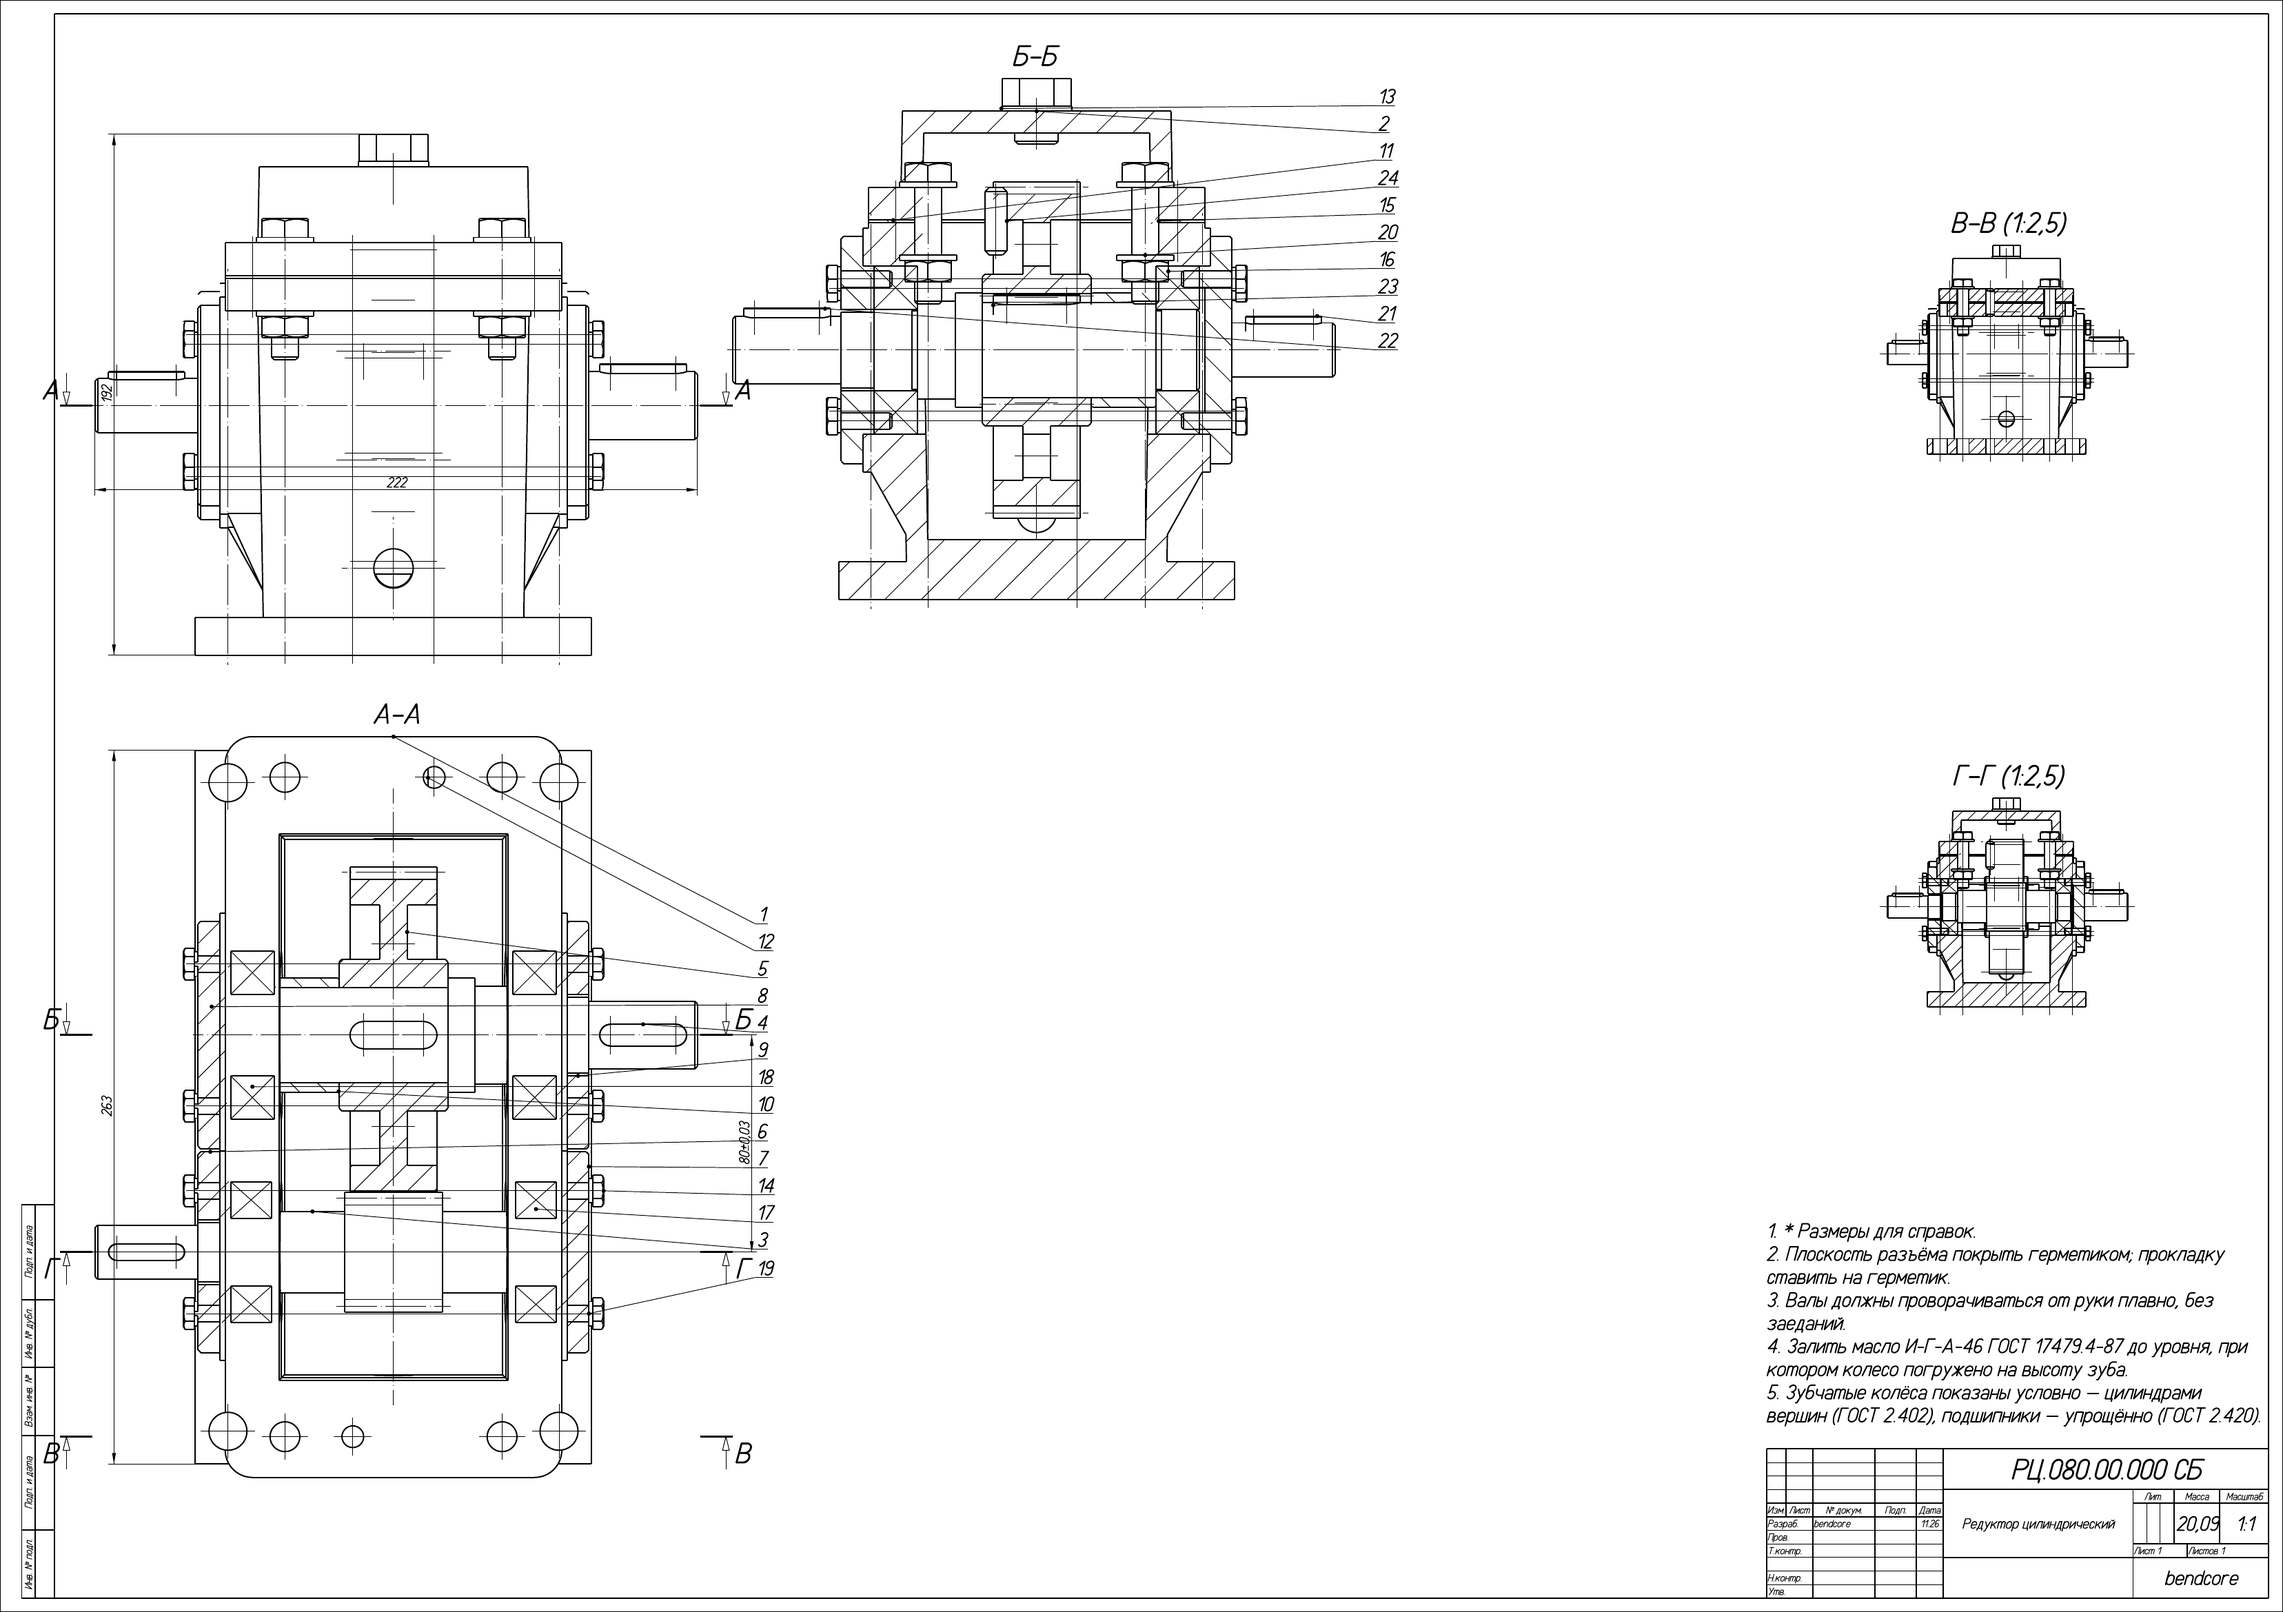
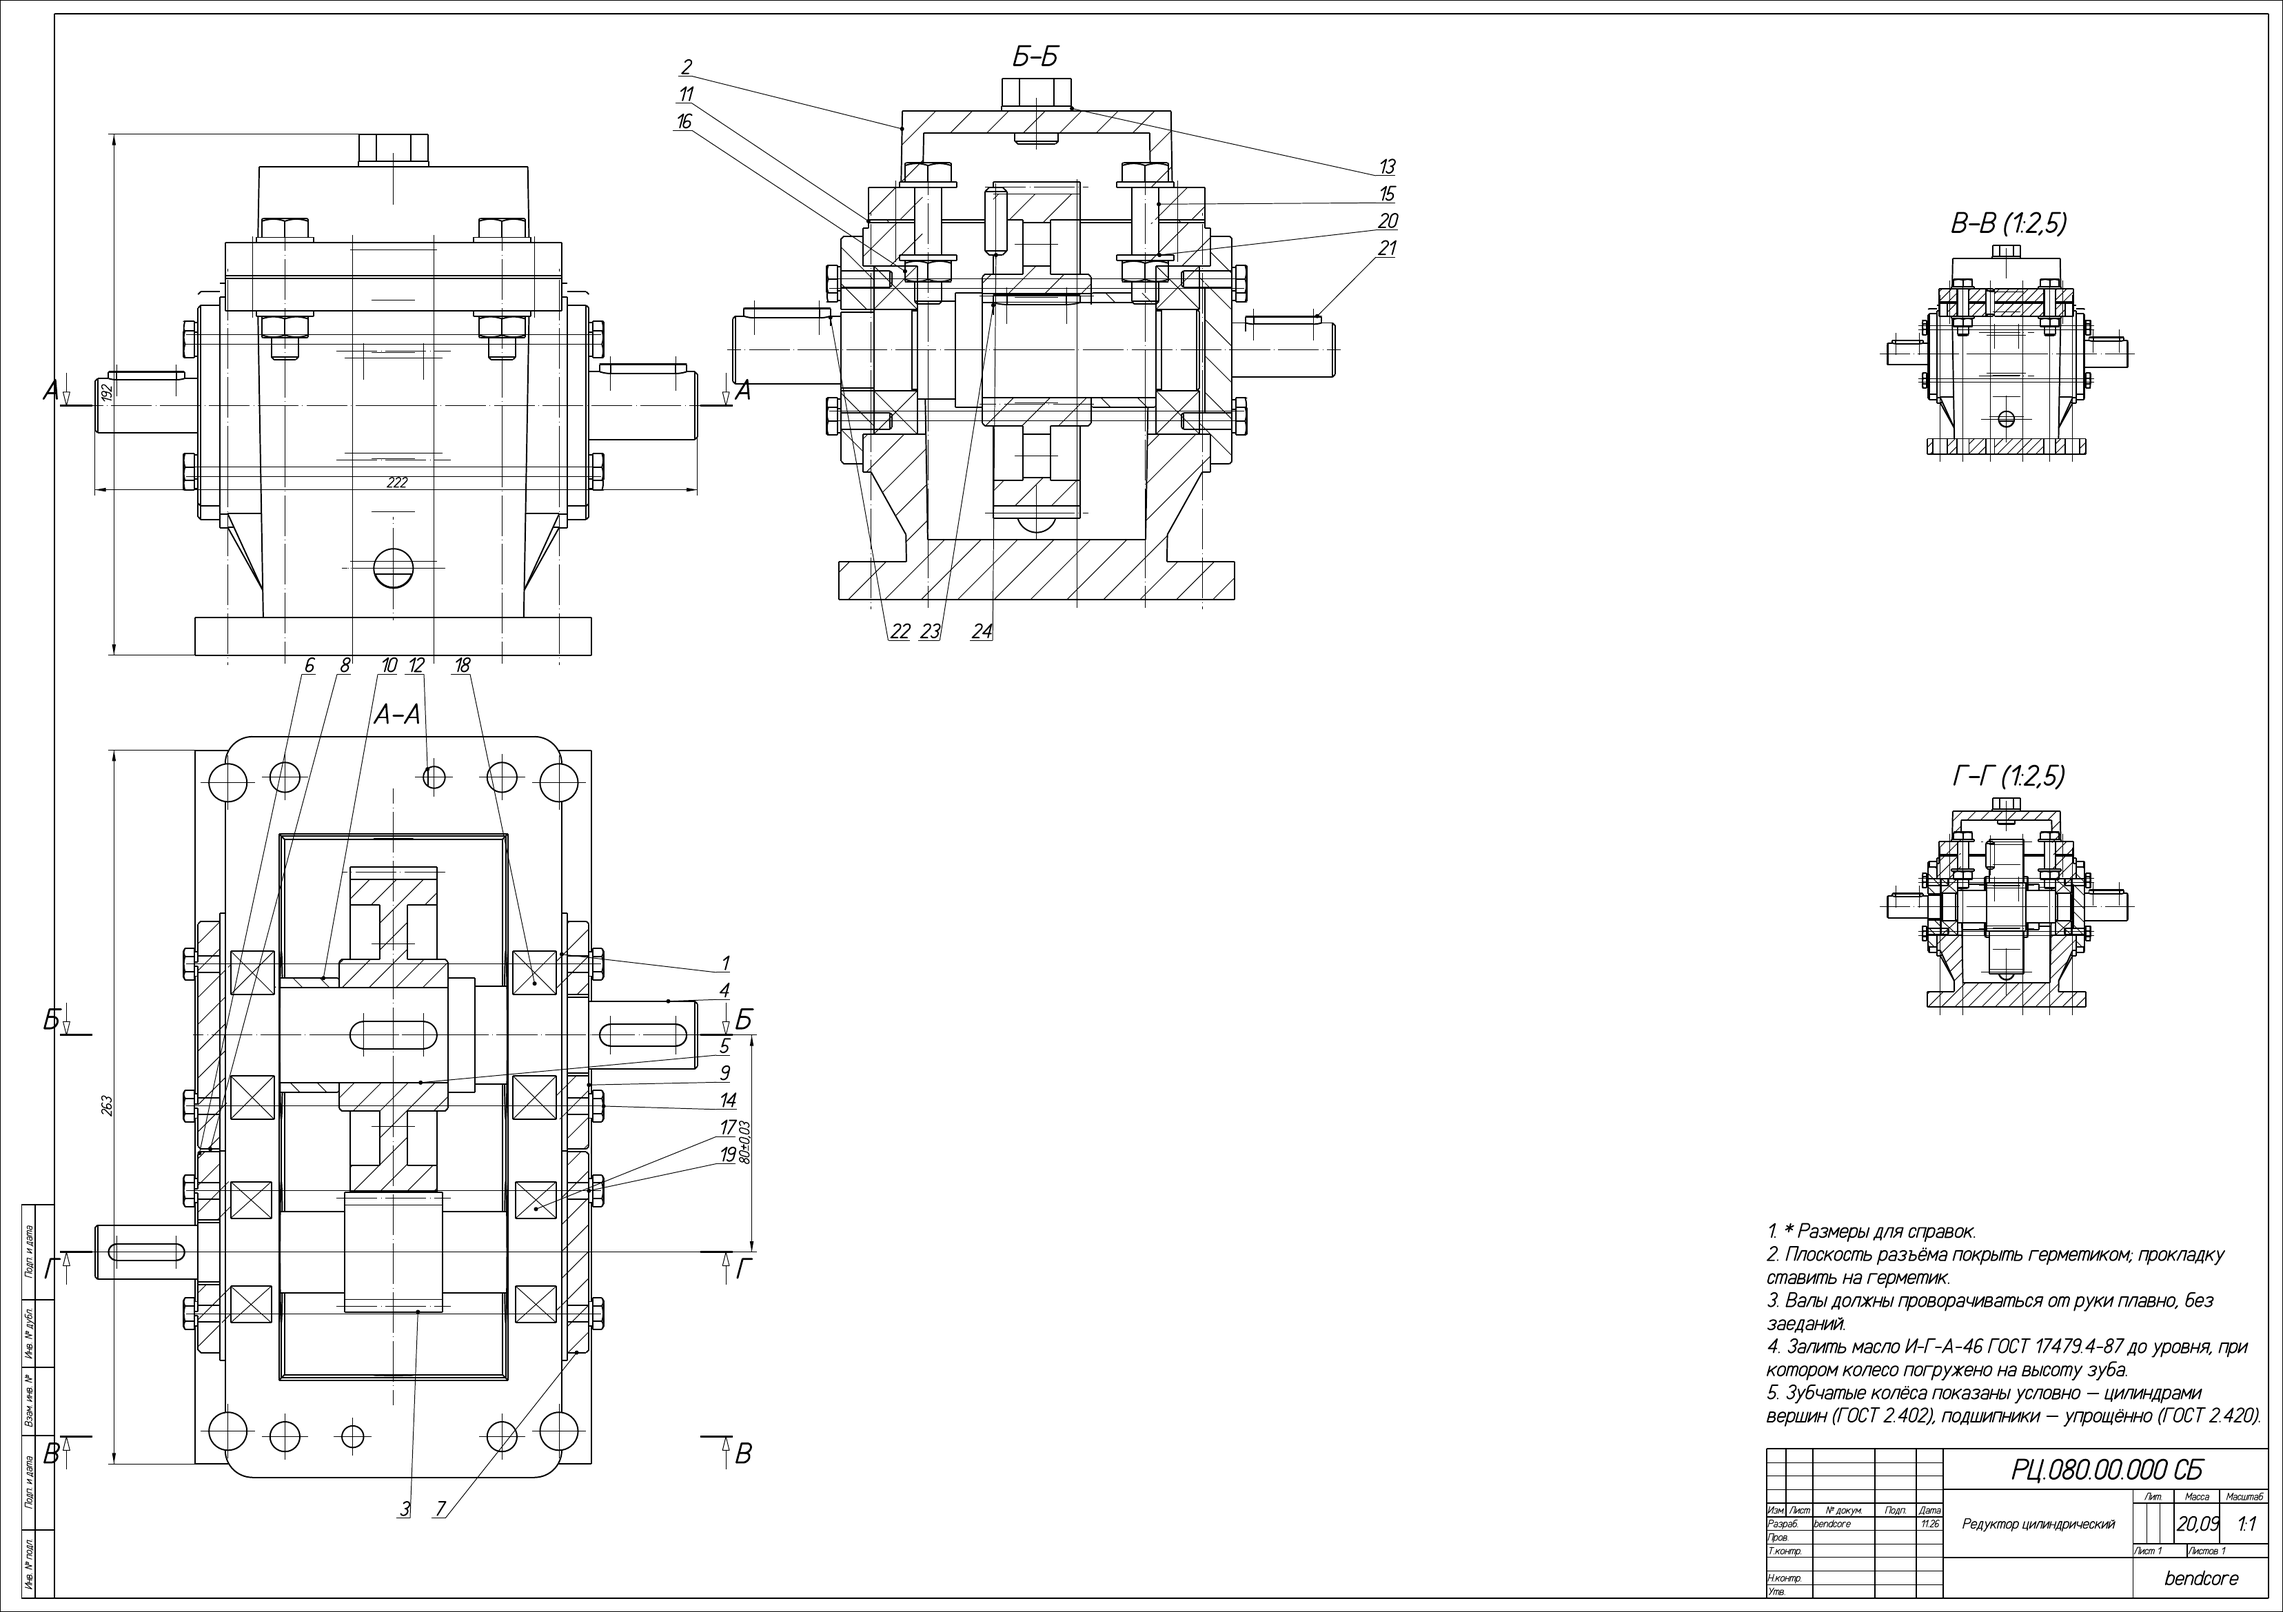
Positions: slide shelf lines along the side, other views and slanted letters as obstacles; regenerate the gearbox kit
Claude-Session: https://claude.ai/code/session_01Rpe6GEasUXj3fCuBptXKpM

diff --git a/src/drawing_v2/document/drawing_document.cpp b/src/drawing_v2/document/drawing_document.cpp
@@ -224,16 +224,18 @@ Status renderViewMarks(Drawing& d, const ComputedView& cv, const std::map<std::s
     return okStatus();
 }
 
-// Габарит строки текста (с поворотом — габарит повёрнутого прямоугольника).
+// Габарит строки текста (с поворотом — габарит повёрнутого прямоугольника) с запасом: наклон
+// букв 75° (ГОСТ 2.304) выносит верх строки вправо на h · ctg 75°, и 0,5 мм со всех сторон.
 Rect textBox(Point2 at, const std::string& utf8, double height, double rotationDeg, HAlign ha, VAlign va,
              const TextMetrics* font) {
     const double w = annotations::estimateTextWidth(utf8, height, font);
     const double x0 = ha == HAlign::Left ? 0.0 : ha == HAlign::Center ? -w / 2.0 : -w;
     const double y0 = va == VAlign::Baseline ? 0.0 : va == VAlign::Middle ? -height / 2.0 : -height;
     const double a = rotationDeg * 3.14159265358979323846 / 180.0, c = std::cos(a), s = std::sin(a);
+    const double slant = height / std::tan(kGostTextSlantDeg * 3.14159265358979323846 / 180.0), pad = 0.5;
     Rect r{1e300, 1e300, -1e300, -1e300};
-    for (double u : {x0, x0 + w})
-        for (double v : {y0, y0 + height}) {
+    for (double u : {x0 - pad, x0 + w + slant + pad})
+        for (double v : {y0 - pad, y0 + height + pad}) {
             const double x = at.x + u * c - v * s, y = at.y + u * s + v * c;
             r = {std::min(r.x0, x), std::min(r.y0, y), std::max(r.x1, x), std::max(r.y1, y)};
         }
@@ -1619,6 +1621,12 @@ Result<UpdateReport> DrawingDocument::update(const ModelSnapshot& model, ViewCac
                 ao.area = {reg.frame.x0 + 5.0, reg.frame.y0 + 5.0, reg.frame.x1 - 5.0, reg.frame.y1 - 5.0};
                 ao.style = style;
                 ao.obstacles = obstacles;
+                // Изображения других видов листа: полки на них не ставятся, выноски их не пересекают.
+                for (std::size_t vj = 0; vj < cs.views.size(); ++vj) {
+                    if (vj == vi) continue;
+                    const Box2 ob = cs.views[vj].sheetView.sheetBounds();
+                    if (!ob.empty) ao.obstacles.boxes.push_back({ob.minX, ob.minY, ob.maxX, ob.maxY});
+                }
                 auto arranged = annotations::arrangeBalloons(g.cands, ao);
                 if (!arranged) {
                     report.warnings.push_back("sheet '" + sd.id + "', view '" + cv.id + "': " + arranged.error().message);

diff --git a/src/drawing_v2/annotations/balloon_layout.cpp b/src/drawing_v2/annotations/balloon_layout.cpp
@@ -284,18 +284,27 @@ public:
             lines = std::move(uniq);
             if (lines.size() > 24) lines.resize(24);
         }
+        // Сдвиги всей линии слотов вдоль линии (выноска обходит надписи и размеры выбором места
+        // полок): 0, ±15, ±30 мм в пределах area.
+        const double sMin = column ? -(area.y1 - h_ - 1.0) : area.x0 + maxW;
+        const double sMax = column ? -(area.y0 + 1.0) : area.x1 - maxW;
         bool have = false;
-        for (double L : lines) {
-            const double lineShift = double(n) * std::abs(L - L0);  // сдвиг линии — n · расстояние
-            if (have && out.score.perfect() && lineShift >= out.score.cost) continue;
-            Line cand = place(side, members, ideal, L, maxW, env, allowReorder);
-            cand.shift += lineShift;
-            cand.score.cost += lineShift;
-            if (!have || cand.score < out.score) {
-                out = std::move(cand);
-                have = true;
+        for (double L : lines)
+            for (double d : {0.0, -15.0, 15.0, -30.0, 30.0}) {
+                if (d != 0.0 && (ideal.front() + d < sMin || ideal.back() + d > sMax)) continue;
+                // Сдвиг линии — n · расстояние, сдвиг слотов вдоль линии — n · |d| / 2.
+                const double lineShift = double(n) * (std::abs(L - L0) + 0.5 * std::abs(d));
+                if (have && out.score.perfect() && lineShift >= out.score.cost) continue;
+                std::vector<double> moved = ideal;
+                for (double& x : moved) x += d;
+                Line cand = place(side, members, moved, L, maxW, env, allowReorder);
+                cand.shift += lineShift;
+                cand.score.cost += lineShift;
+                if (!have || cand.score < out.score) {
+                    out = std::move(cand);
+                    have = true;
+                }
             }
-        }
         return out;
     }
 
